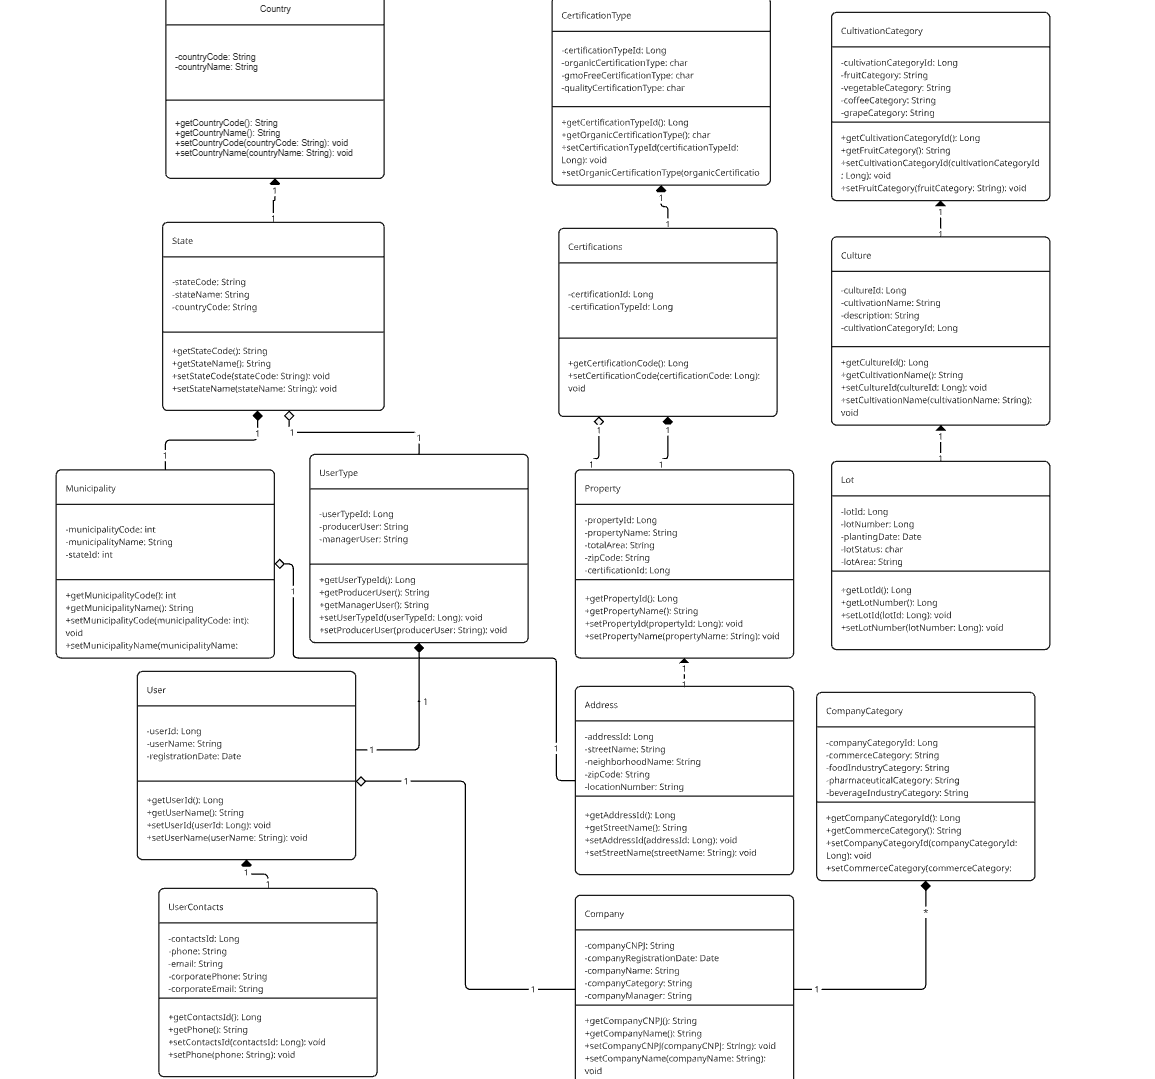
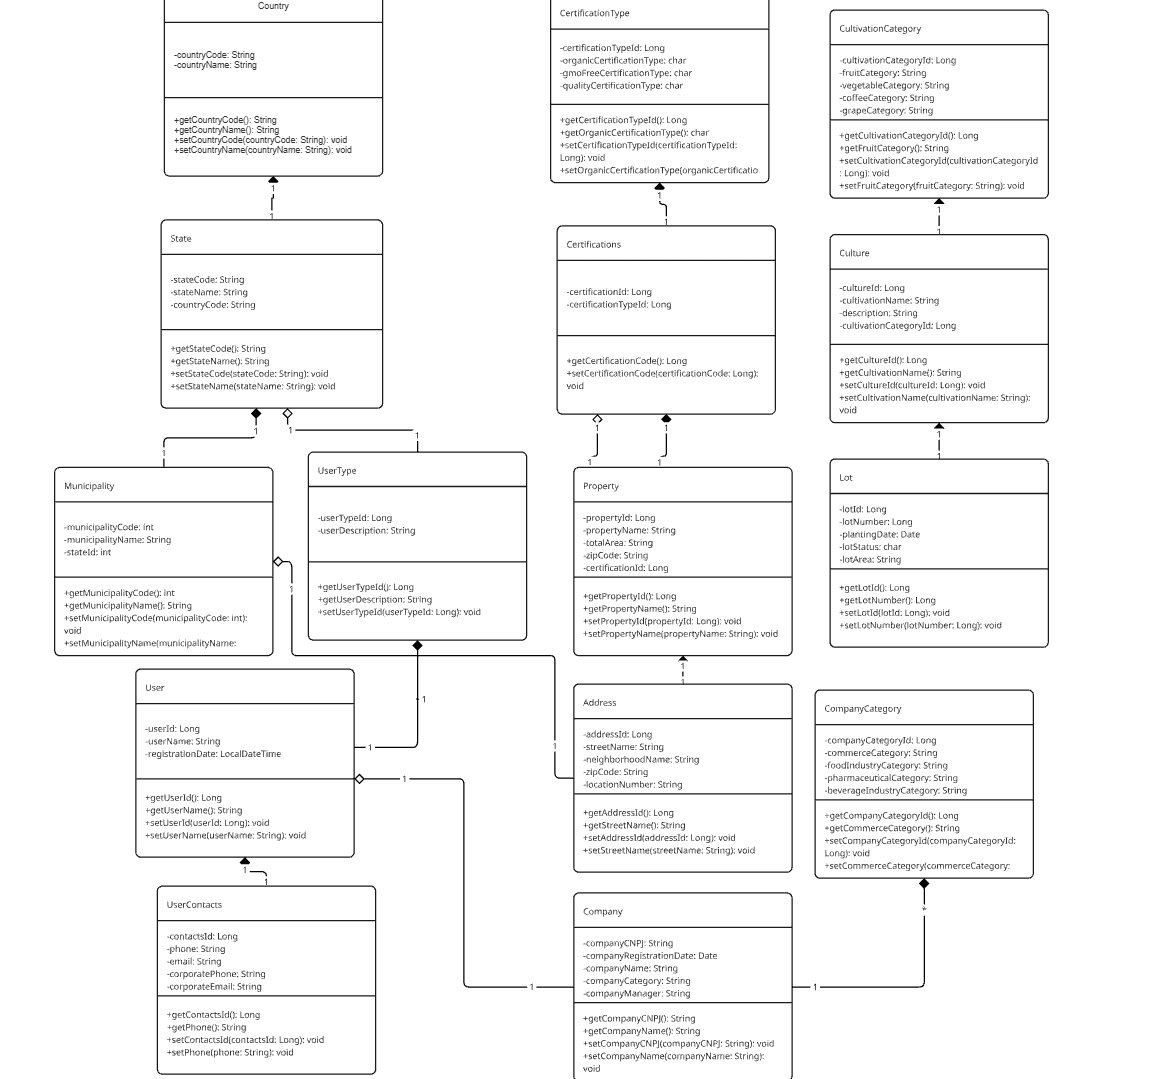
feat: implement user and user type services and new endpoints

Changed region(s): [[0.0312, 0.0, 0.9039, 1.0], [0.6857, 0.8563, 0.8104, 0.9175]]

diff --git a/vits-agrochain/src/main/java/br/com/vits/orc/vits_agrochain/controller/UserController.java b/vits-agrochain/src/main/java/br/com/vits/orc/vits_agrochain/controller/UserController.java
@@ -1,47 +1,46 @@
 package br.com.vits.orc.vits_agrochain.controller;
 
+import java.util.List;
+
 import org.springframework.beans.factory.annotation.Autowired;
 import org.springframework.http.HttpStatus;
-import org.springframework.http.ResponseEntity;
 import org.springframework.web.bind.annotation.*;
 
 import br.com.vits.orc.vits_agrochain.model.User;
-import br.com.vits.orc.vits_agrochain.model.UserType;
-import br.com.vits.orc.vits_agrochain.repository.UserRepository;
-import br.com.vits.orc.vits_agrochain.repository.UserTypeRepository;
+import br.com.vits.orc.vits_agrochain.service.UserService;
 import io.swagger.v3.oas.annotations.Operation;
-import io.swagger.v3.oas.annotations.responses.ApiResponse;
-import io.swagger.v3.oas.annotations.responses.ApiResponses;
 import io.swagger.v3.oas.annotations.tags.Tag;
-import jakarta.persistence.EntityNotFoundException;
+import jakarta.validation.Valid;
 import lombok.extern.slf4j.Slf4j;
 
+@Slf4j
 @RestController
 @RequestMapping("/users")
 @Tag(name = "Usuários", description = "Gerenciamento de usuários do sistema Verdantis")
-@Slf4j
 public class UserController {
 
     @Autowired
-    private UserRepository userRepository;
+    private UserService userService;
 
-    @Autowired
-    private UserTypeRepository userTypeRepository;
+    @GetMapping
+    @Operation(summary = "Listar todos os usuários", description = "Retorna lista completa de usuários cadastrados")
+    public List<User> listAll() {
+        log.info("Listando todos os usuários");
+        return userService.listAll();
+    }
+
+    @GetMapping("/{id}")
+    @Operation(summary = "Buscar usuário por ID", description = "Retorna um usuário específico pelo seu ID")
+    public User getById(@PathVariable Long id) {
+        log.info("Buscando usuário com id: {}", id);
+        return userService.getUserById(id);
+    }
 
     @PostMapping
-    @Operation(summary = "Criar novo usuário", description = "Cria um novo usuário no sistema")
-    public ResponseEntity<User> create(@RequestBody User user) {
+    @ResponseStatus(HttpStatus.CREATED)
+    @Operation(summary = "Criar novo usuário", description = "Cria um novo usuário no sistema (produtor, gestor ou comprador)")
+    public User create(@RequestBody @Valid User user) {
         log.info("Criando usuário: {}", user);
-
-        Long userTypeId = user.getUserType().getUserTypeId();
-        
-        UserType userTypeOriginal = userTypeRepository.findById(userTypeId)
-            .orElseThrow(() -> new EntityNotFoundException("UserType não encontrado com o id: " + userTypeId));
-
-        user.setUserType(userTypeOriginal);
-
-        User savedUser = userRepository.save(user);
-        
-        return ResponseEntity.status(HttpStatus.CREATED).body(savedUser);
+        return userService.create(user);
     }
 }

diff --git a/vits-agrochain/src/main/java/br/com/vits/orc/vits_agrochain/controller/UserTypeController.java b/vits-agrochain/src/main/java/br/com/vits/orc/vits_agrochain/controller/UserTypeController.java
@@ -1,0 +1,48 @@
+package br.com.vits.orc.vits_agrochain.controller;
+
+import java.util.List;
+
+import org.springframework.beans.factory.annotation.Autowired;
+import org.springframework.http.HttpStatus;
+import org.springframework.web.bind.annotation.*;
+
+import br.com.vits.orc.vits_agrochain.model.UserType;
+import br.com.vits.orc.vits_agrochain.service.UserTypeService;
+import io.swagger.v3.oas.annotations.Operation;
+import io.swagger.v3.oas.annotations.responses.ApiResponse;
+import io.swagger.v3.oas.annotations.responses.ApiResponses;
+import io.swagger.v3.oas.annotations.tags.Tag;
+import jakarta.validation.Valid;
+import lombok.extern.slf4j.Slf4j;
+
+@Slf4j
+@RestController
+@RequestMapping("/user-types")
+@Tag(name = "Tipos de Usuário", description = "Gerenciamento de tipos de usuário (Produtor, Gestor, Comprador)")
+public class UserTypeController {
+
+    @Autowired
+    private UserTypeService userTypeService;
+
+    @PostMapping
+    @ResponseStatus(HttpStatus.CREATED)
+    @Operation(summary = "Criar novo tipo de usuário", description = "Cria um novo tipo de usuário no sistema")
+    public UserType create(@RequestBody @Valid UserType userType) {
+        log.info("Criando tipo de usuário: {}", userType);
+        return userTypeService.create(userType);
+    }
+
+    @GetMapping
+    @Operation(summary = "Listar tipos de usuário", description = "Retorna todos os tipos de usuário cadastrados")
+    public List<UserType> listAll() {
+        log.info("Listando todos os tipos de usuário");
+        return userTypeService.listAll();
+    }
+
+    @GetMapping("/{id}")
+    @Operation(summary = "Buscar tipo de usuário por ID", description = "Retorna um tipo de usuário específico pelo ID")
+    public UserType getById(@PathVariable Long id) {
+        log.info("Buscando tipo de usuário com id: {}", id);
+        return userTypeService.getUserTypeById(id);
+    }
+}

diff --git a/vits-agrochain/src/main/java/br/com/vits/orc/vits_agrochain/service/UserService.java b/vits-agrochain/src/main/java/br/com/vits/orc/vits_agrochain/service/UserService.java
@@ -1,0 +1,45 @@
+package br.com.vits.orc.vits_agrochain.service;
+
+import java.util.List;
+
+import org.springframework.beans.factory.annotation.Autowired;
+import org.springframework.http.HttpStatus;
+import org.springframework.stereotype.Service;
+import org.springframework.web.server.ResponseStatusException;
+
+import br.com.vits.orc.vits_agrochain.model.User;
+import br.com.vits.orc.vits_agrochain.model.UserType;
+import br.com.vits.orc.vits_agrochain.repository.UserRepository;
+
+@Service
+public class UserService {
+    
+    @Autowired
+    private UserRepository userRepository;
+
+    @Autowired
+    private UserTypeService userTypeService;
+
+    public User create(User user) {
+        Long userTypeId = user.getUserType().getUserTypeId();
+        
+        UserType userType = userTypeService.getUserTypeById(userTypeId);
+
+        user.setUserType(userType);
+
+        return userRepository.save(user);
+    }
+
+    public List<User> listAll() {
+        return userRepository.findAll();
+    }
+
+    public User getUserById(Long id) {
+        return userRepository
+                .findById(id)
+                .orElseThrow(() -> new ResponseStatusException(
+                    HttpStatus.NOT_FOUND, 
+                    "Usuário não encontrado com o id: " + id
+                ));
+    }
+}

diff --git a/vits-agrochain/src/main/java/br/com/vits/orc/vits_agrochain/service/UserTypeService.java b/vits-agrochain/src/main/java/br/com/vits/orc/vits_agrochain/service/UserTypeService.java
@@ -1,0 +1,35 @@
+package br.com.vits.orc.vits_agrochain.service;
+
+import java.util.List;
+
+import org.springframework.beans.factory.annotation.Autowired;
+import org.springframework.http.HttpStatus;
+import org.springframework.stereotype.Service;
+import org.springframework.web.server.ResponseStatusException;
+
+import br.com.vits.orc.vits_agrochain.model.UserType;
+import br.com.vits.orc.vits_agrochain.repository.UserTypeRepository;
+
+@Service
+public class UserTypeService {
+    
+    @Autowired
+    private UserTypeRepository userTypeRepository;
+
+    public UserType create(UserType userType) {
+        return userTypeRepository.save(userType);
+    }
+
+    public List<UserType> listAll() {
+        return userTypeRepository.findAll();
+    }
+
+    public UserType getUserTypeById(Long id) {
+        return userTypeRepository
+                .findById(id)
+                .orElseThrow(() -> new ResponseStatusException(
+                    HttpStatus.NOT_FOUND, 
+                    "UserType não encontrado com o id: " + id
+                ));
+    }
+}

diff --git a/vits-agrochain/src/main/java/br/com/vits/orc/vits_agrochain/model/User.java b/vits-agrochain/src/main/java/br/com/vits/orc/vits_agrochain/model/User.java
@@ -1,10 +1,9 @@
 package br.com.vits.orc.vits_agrochain.model;
 
-import java.time.LocalDate;
+import java.time.LocalDateTime;
 
 import jakarta.persistence.*;
 import jakarta.validation.constraints.NotBlank;
-import jakarta.validation.constraints.PastOrPresent;
 import jakarta.validation.constraints.Size;
 import lombok.*;
 
@@ -24,7 +23,7 @@ public class User {
     )
     @SequenceGenerator(
         name = "usuario_seq_gen", 
-        sequenceName = "seq_vits_usuario",     
+        sequenceName = "SEQ_USUARIO",     
         allocationSize = 1
     )
     @Column(name = "vits_id_usuario")
@@ -35,9 +34,8 @@ public class User {
     @Column(name = "vits_nome_usuario")
     private String userName;
 
-    @PastOrPresent
-    @Column(name = "vits_data_cadastro")
-    private LocalDate registrationDate;
+    @Column(name = "vits_data_cadastro", nullable = false)
+    private LocalDateTime registrationDate;
 
     @ManyToOne(cascade = CascadeType.MERGE)
     @JoinColumn(name = "id_tipo_usuario") 

diff --git a/vits-agrochain/src/main/java/br/com/vits/orc/vits_agrochain/model/UserType.java b/vits-agrochain/src/main/java/br/com/vits/orc/vits_agrochain/model/UserType.java
@@ -19,15 +19,12 @@ public class UserType {
     )
     @SequenceGenerator(
         name = "tipo_usuario_seq_gen", 
-        sequenceName = "seq_vits_tipo_usuario", 
+        sequenceName = "SEQ_TIPO_USUARIO", 
         allocationSize = 1
     )
     @Column(name = "id_tipo_usuario")
     private Long userTypeId;
 
-    @Column(name = "usuario_produtor")
-    private String producerUser;
-
-    @Column(name = "usuario_gestor")
-    private String managerUser;
+    @Column(name = "vits_usuario_descrição", length = 50)
+    private String userDescription;
 }

diff --git a/README.md b/README.md
@@ -332,47 +332,26 @@ O projeto foi testado utilizando as seguintes abordagens:
 
 
 
-#### Cenários de Teste Implementados:
+#### Endpoints (Swagger)
 
-✅ **Teste 1: Health Check**
-- Endpoint: `GET /`
-- Resultado Esperado: Status 200, mensagem de boas-vindas
-
-✅ **Teste 2: Criar Usuário com Sucesso**
-- Endpoint: `POST /users`
-- Body: Usuário válido com UserType existente
-- Resultado Esperado: Status 201, usuário criado com ID
-
-✅ **Teste 3: Criar Usuário com UserType Inválido**
-- Endpoint: `POST /users`
-- Body: Usuário com UserType não existente
-- Resultado Esperado: Status 404, mensagem de erro
-
-✅ **Teste 4: Criar Usuário com Dados Inválidos**
-- Endpoint: `POST /users`
-- Body: userName em branco ou data futura
-- Resultado Esperado: Status 400, erros de validação
-
-✅ **Teste 5: Persistência e Recuperação de Dados**
-- Verificação de que os dados são corretamente persistidos no Oracle Database
-- Consulta direta ao banco confirma integridade dos dados
+![Endpoints](/documentation/image.png)
 
 ---
 
 ## 🛠 Tecnologias Utilizadas
 
-| Categoria | Tecnologia | Versão | Função |
-|-----------|------------|--------|--------|
-| **Backend** | Java | 17 | Linguagem de programação |
-| **Framework** | Spring Boot | 3.5.6 | Framework para API REST |
-| **Persistência** | Spring Data JPA | - | Camada de acesso a dados |
-| **Banco de Dados** | Oracle Database | - | Armazenamento principal |
-| **Driver JDBC** | ojdbc11 | - | Conexão com Oracle |
-| **Validação** | Hibernate Validator | - | Validação de dados |
-| **Build** | Maven | 3.8+ | Gerenciamento de dependências |
-| **Utilitários** | Lombok | - | Redução de boilerplate code |
-| **Logging** | SLF4J | - | Sistema de logs |
-| **Monitoramento** | Spring Actuator | - | Health checks e métricas |
+| Categoria | Tecnologia | Função |
+|-----------|------------|--------|
+| **Backend** | Java | Linguagem de programação |
+| **Framework** | Spring Boot | Framework para API REST |
+| **Persistência** | Spring Data JPA | Camada de acesso a dados |
+| **Banco de Dados** | Oracle Database | Armazenamento principal |
+| **Driver JDBC** | ojdbc11 | Conexão com Oracle |
+| **Validação** | Hibernate Validator | Validação de dados |
+| **Build** | Maven | Gerenciamento de dependências |
+| **Utilitários** | Lombok | Redução de boilerplate code |
+| **Logging** | SLF4J | Sistema de logs |
+| **Monitoramento** | Spring Actuator | Health checks e métricas |
 
 ---
 
